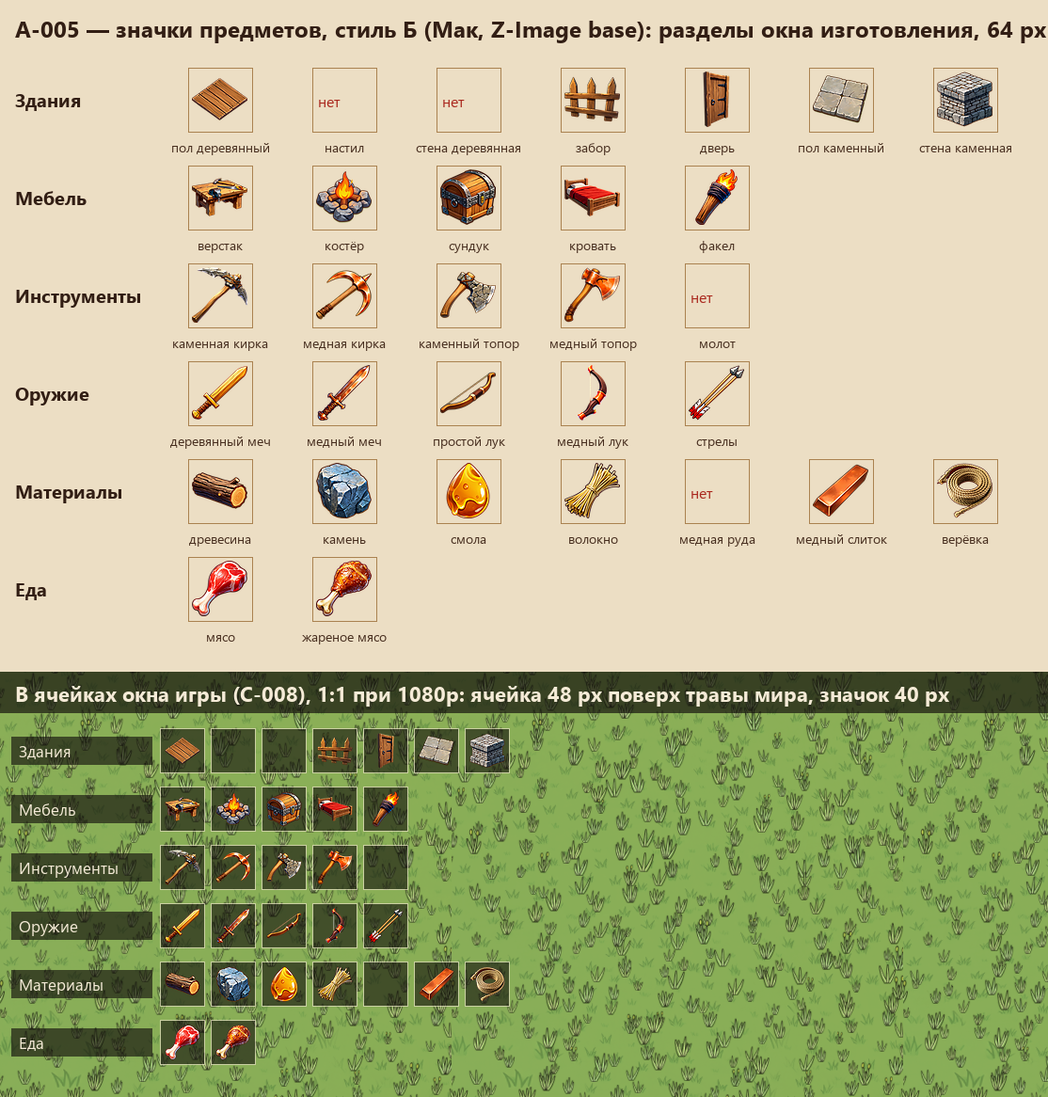
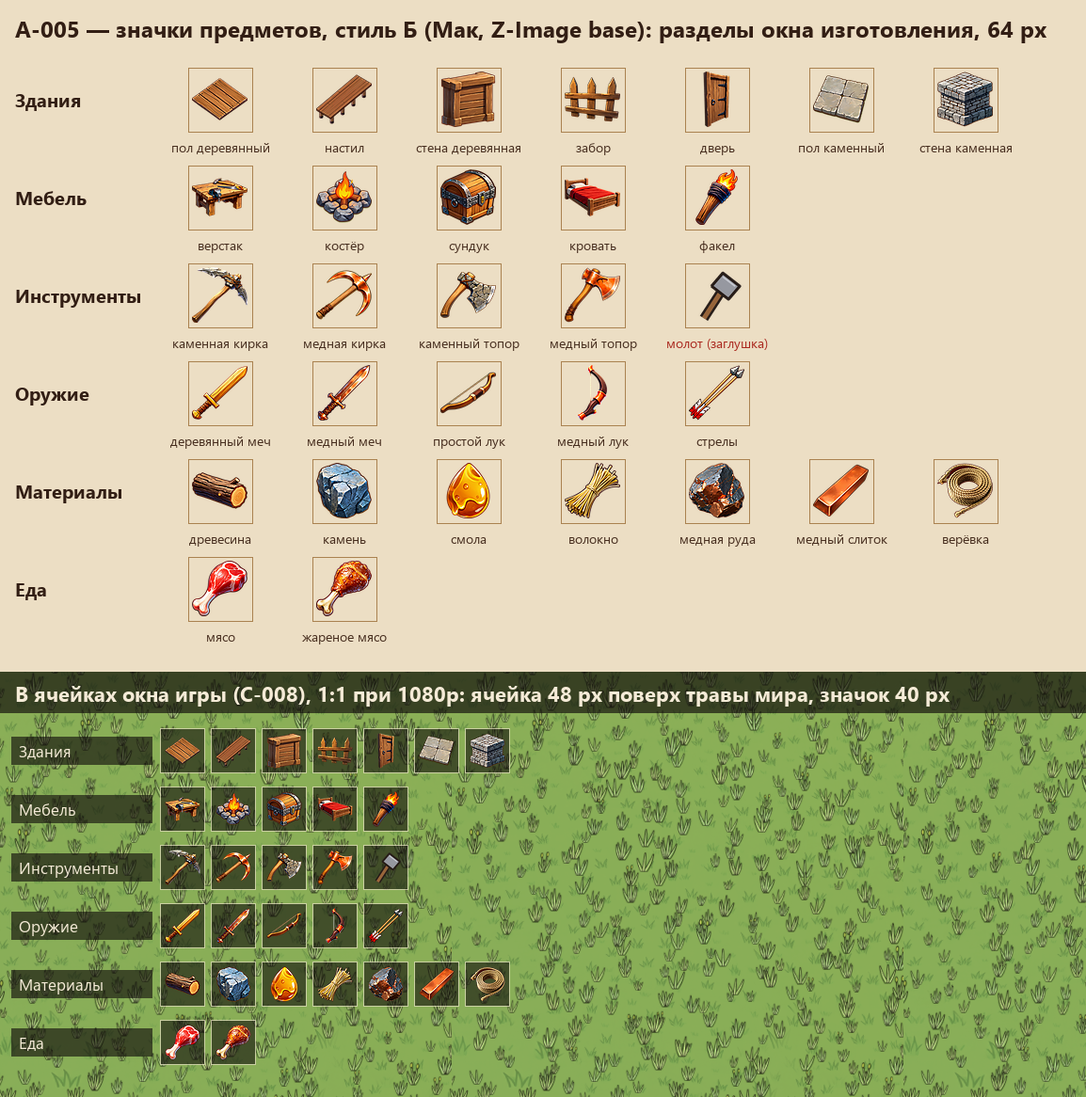
A-005: 30 из 31 значка предметов в стиле Б в игре, лист и снимки
Мак, Z-Image base: 36 заданий + 4 перезаказа с поправкой (настил,
деревянная стена, молот, медная руда). В игре 30 значков стиля Б
(TEMP_item_*, 64 px, статус placeholder до приёмки Автора), молот —
прежняя заглушка: три попытки вышли на плашке-медальоне.
Лист work/screens/A-005_set.png (разделы окна изготовления, 64 px и
в ячейках на траве), снимки игры work/screens/A-005_ingame_*.png.
Сборка Mono + smoke + host-smoke зелёная. Карточка и art.md обновлены.

diff --git a/tools/art_icon_set.py b/tools/art_icon_set.py
@@ -54,8 +54,10 @@ CHOICE = {
     # выбор из двух вариантов (15.11): у первого — плашка, два обуха, нет тетивы и т. п. (карточка, «Набор 15.11»)
     "stone_floor": "s_stone_floor_2", "door": "s_door_2", "stone_axe": "s_stone_axe_2", "copper_axe": "s_copper_axe_2",
     # перезаказ с поправкой (_r)
-    "platform": "s_platform_r", "wood_wall": "s_wood_wall_r", "hammer": "s_hammer_r", "copper_ore": "s_copper_ore_r",
+    "platform": "s_platform_r", "wood_wall": "s_wood_wall_r", "copper_ore": "s_copper_ore_r",
 }
+# Не удались все попытки — остаётся прежняя заглушка скрипта (молот: 2 варианта и перезаказ — на плашке / голова отдельно).
+KEEP = {"hammer"}
 
 
 def source(item: str, raw: Path, praw: Path) -> Path:
@@ -101,6 +103,9 @@ def install(raw: Path, praw: Path) -> None:
         rows = list(csv.reader(f))
     notes = {}
     for item in LABEL:
+        if item in KEEP:
+            print(f"{item}: прежняя заглушка (KEEP)")
+            continue
         src = source(item, raw, praw)
         if not src.exists():
             print(f"{item}: нет {src} — пропуск")
@@ -125,7 +130,7 @@ def install(raw: Path, praw: Path) -> None:
 def sheet() -> None:
     per_row = 7
     colw, rowh, left = 132, 104, 170
-    W = left + per_row * colw + 20
+    W = left + per_row * colw + 60
     top = 70
     H_list = top + len(SECTIONS) * rowh + 20
     grass_rows = [(name, items) for name, items in SECTIONS]
@@ -143,10 +148,11 @@ def sheet() -> None:
             d.rectangle((x + 30, y + 2, x + 30 + 68, y + 2 + 68), outline=(170, 130, 80))
             if p.exists():
                 img.alpha_composite(Image.open(p).convert("RGBA"), (x + 32, y + 4))
-            else:
-                d.text((x + 36, y + 26), "нет", fill=(170, 40, 30), font=probe.font(16))
+            else:   # нет значка Мака — прежняя заглушка скрипта с пометкой
+                img.alpha_composite(probe.current_icon(k), (x + 32, y + 4))
+                label += " (заглушка)"
             tw = d.textlength(label, font=probe.font(14))
-            d.text((x + 64 - tw / 2, y + 76), label, fill=(70, 45, 30), font=probe.font(14))
+            d.text((x + 64 - tw / 2, y + 76), label, fill=(170, 40, 30) if not p.exists() else (70, 45, 30), font=probe.font(14))
     gy = H_list
     img.alpha_composite(probe.grass(W, H_grass), (0, gy))
     img.alpha_composite(Image.new("RGBA", (W, 44), (16, 12, 10, 170)), (0, gy))
@@ -158,7 +164,8 @@ def sheet() -> None:
         d.text((20, y + 12), name, fill=(245, 235, 215), font=probe.font(17))
         for i, (k, _) in enumerate(items):
             p = ICONS / f"{k}_128.png"
-            ic = probe.fit_from(Image.open(p).convert("RGBA"), probe.ICON) if p.exists() else None
+            ic = (probe.fit_from(Image.open(p).convert("RGBA"), probe.ICON) if p.exists()
+                  else probe.current_icon(k).resize((probe.ICON, probe.ICON), Image.LANCZOS))
             img.alpha_composite(probe.cell_with(ic), (left + i * (probe.CELL + 6), y))
     SHEET.parent.mkdir(parents=True, exist_ok=True)
     img.convert("RGB").save(SHEET, optimize=True)

diff --git a/work/tasks/A-005.md b/work/tasks/A-005.md
@@ -82,45 +82,59 @@
 
 | Ключ | id задания | seed | Статус | Предмет (промпт) |
 |---|---|---|---|---|
-| `s_wood_floor` | `13faf4ad-1d34-42df-8696-dce9420e7cb4` | 5220 | в очереди | a single square floor tile of wooden planks, a thin flat square made of five parallel warm brown wooden boards with visible wood grain and small iron nail heads, lying flat, very low, only a thin edge of thickness visible, a flat floor tile, not a box, not a wall · камера `icon_b_floor` · негатив предмета: `box, cube, crate, block, wall, tall, upright, table, legs, thick slab` |
-| `s_wood_floor_2` | `16d81491-1878-4ded-a012-3e5cb03f7fec` | 5320 | в очереди | a single square floor tile of wooden planks, a thin flat square made of five parallel warm brown wooden boards with visible wood grain and small iron nail heads, lying flat, very low, only a thin edge of thickness visible, a flat floor tile, not a box, not a wall · камера `icon_b_floor` · негатив предмета: `box, cube, crate, block, wall, tall, upright, table, legs, thick slab` |
-| `s_stone_floor` | `fede8310-bd9d-4879-a7fd-9998d90793cf` | 5221 | в очереди | a single square floor tile of stone paving, a thin flat square made of four smooth light grey and sandy beige stone flagstones with mortar seams, lying flat, very low, only a thin edge of thickness visible, a flat floor tile, not a block, not a wall · камера `icon_b_floor` · негатив предмета: `box, cube, crate, block, wall, tall, upright, table, legs, thick slab` |
-| `s_stone_floor_2` | `913cc6a6-a69f-4373-aafe-a1539adc32fe` | 5321 | в очереди | a single square floor tile of stone paving, a thin flat square made of four smooth light grey and sandy beige stone flagstones with mortar seams, lying flat, very low, only a thin edge of thickness visible, a flat floor tile, not a block, not a wall · камера `icon_b_floor` · негатив предмета: `box, cube, crate, block, wall, tall, upright, table, legs, thick slab` |
-| `s_platform` | `7cf7f04e-2997-4b28-89a2-a720070cffac` | 5222 | в очереди | a short wooden pier section, a flat deck of brown wooden planks resting on four round wooden stilt posts that go down below it, the posts clearly visible under the deck, a low dock walkway piece seen from above at a three-quarter angle · негатив предмета: `water, sea, waves, railing, house, boat` |
-| `s_platform_2` | `ba9ddf5b-50d2-47b6-95fe-517c831319c5` | 5322 | в очереди | a short wooden pier section, a flat deck of brown wooden planks resting on four round wooden stilt posts that go down below it, the posts clearly visible under the deck, a low dock walkway piece seen from above at a three-quarter angle · негатив предмета: `water, sea, waves, railing, house, boat` |
-| `s_wood_wall` | `e4d4319e-6400-467f-aae1-c38fe3a36dad` | 5223 | в очереди | a single upright section of a wooden wall, a vertical rectangular piece of wall built of thick horizontal brown logs stacked on top of each other, clearly taller than it is thick, the top face shows the cut ends and the thickness of the logs, visible front face and top face, standing upright like a piece of a house wall · негатив предмета: `floor, flat tile, roof, window, door, house, cabin` |
-| `s_wood_wall_2` | `7035919b-60a5-4dad-936d-e96a46e94744` | 5323 | в очереди | a single upright section of a wooden wall, a vertical rectangular piece of wall built of thick horizontal brown logs stacked on top of each other, clearly taller than it is thick, the top face shows the cut ends and the thickness of the logs, visible front face and top face, standing upright like a piece of a house wall · негатив предмета: `floor, flat tile, roof, window, door, house, cabin` |
-| `s_wood_fence` | `bb810e68-bba0-4634-8b4a-f67438b5d9f4` | 5224 | в очереди | a short section of a wooden fence, three upright pointed wooden posts connected by two horizontal rails, clear empty gaps between the posts and the rails, warm brown weathered wood, standing upright · негатив предмета: `solid wall, panel, gate, grass, ground` |
-| `s_wood_fence_2` | `461a81f7-b54a-43fd-9020-84d994c0402e` | 5324 | в очереди | a short section of a wooden fence, three upright pointed wooden posts connected by two horizontal rails, clear empty gaps between the posts and the rails, warm brown weathered wood, standing upright · негатив предмета: `solid wall, panel, gate, grass, ground` |
-| `s_door` | `6561cfac-9bbb-4c78-ba5f-fd928398c02d` | 5225 | в очереди | a single closed wooden door standing upright in its frame, a tall rectangular door leaf of vertical brown planks with two black iron hinges and a round iron ring handle, set in a thick wooden door frame, front three-quarter view · негатив предмета: `wall, house, building, open door, window, steps` |
-| `s_door_2` | `df1aaa03-7b2b-4786-a281-889d11d74ce4` | 5325 | в очереди | a single closed wooden door standing upright in its frame, a tall rectangular door leaf of vertical brown planks with two black iron hinges and a round iron ring handle, set in a thick wooden door frame, front three-quarter view · негатив предмета: `wall, house, building, open door, window, steps` |
-| `s_stone_pickaxe` | `15bc3bc8-7d1e-4cc5-aa6e-7b8e69c5a4c4` | 5201 | в очереди | a primitive stone pickaxe, double-ended pick, two symmetric pointed spikes of knapped grey flint stone lashed with brown rawhide cord across the top of a straight wooden handle, no hammer face, no axe blade, side view 3/4, the handle runs diagonally from the lower left to the upper right, light brown wood, the slender stone head sits across the top of the handle with two equally long sharp points curving downward on both sides · негатив предмета: `hammer head, flat striking face, axe blade, hatchet, adze, single point, mallet` |
-| `s_stone_pickaxe_2` | `f0392822-d432-4bb0-9d2c-8c3a39393868` | 5301 | в очереди | a primitive stone pickaxe, double-ended pick, two symmetric pointed spikes of knapped grey flint stone lashed with brown rawhide cord across the top of a straight wooden handle, no hammer face, no axe blade, side view 3/4, the handle runs diagonally from the lower left to the upper right, light brown wood, the slender stone head sits across the top of the handle with two equally long sharp points curving downward on both sides · негатив предмета: `hammer head, flat striking face, axe blade, hatchet, adze, single point, mallet` |
-| `s_stone_axe` | `3020bf50-c2bc-4b1a-a59e-3f6020e355f3` | 5202 | в очереди | a primitive stone axe, one wedge-shaped blade of knapped grey flint stone with a sharp chipped cutting edge, lashed with brown rawhide cord to the top of a straight light brown wooden handle, side view 3/4, the handle runs diagonally from the lower left to the upper right, the blade sticks out to one side only · негатив предмета: `pickaxe, pick, spike, two blades, double-headed axe, hammer` |
-| `s_stone_axe_2` | `1020b071-98cb-4f8e-99b6-26e22da66f16` | 5302 | в очереди | a primitive stone axe, one wedge-shaped blade of knapped grey flint stone with a sharp chipped cutting edge, lashed with brown rawhide cord to the top of a straight light brown wooden handle, side view 3/4, the handle runs diagonally from the lower left to the upper right, the blade sticks out to one side only · негатив предмета: `pickaxe, pick, spike, two blades, double-headed axe, hammer` |
-| `s_hammer` | `644fd9e2-6441-4c08-aed7-c94d23a9e942` | 5203 | в очереди | a heavy builder's mallet, a big rectangular block head of grey stone with two flat ends, lashed with leather cord across the top of a straight light brown wooden handle, side view 3/4, the handle runs diagonally from the lower left to the upper right · негатив предмета: `pickaxe, spike, axe blade, claw, nails` |
-| `s_hammer_2` | `bd5bd294-9284-46bf-94cc-5d0b7c742fa8` | 5303 | в очереди | a heavy builder's mallet, a big rectangular block head of grey stone with two flat ends, lashed with leather cord across the top of a straight light brown wooden handle, side view 3/4, the handle runs diagonally from the lower left to the upper right · негатив предмета: `pickaxe, spike, axe blade, claw, nails` |
-| `s_wooden_sword` | `23699a3c-39ae-43ff-b65d-22a373abd8da` | 5204 | в очереди | a simple wooden sword, a straight flat blade carved from light golden wood with a rounded point, a short wooden crossguard and a grip wrapped in brown leather, lying diagonally with the hilt at the lower left and the point at the upper right · негатив предмета: `metal blade, steel, iron, shiny metal` |
-| `s_simple_bow` | `c9886cf7-cd70-4690-8f8f-f63b0ab961d3` | 5205 | в очереди | a simple wooden hunting bow, one smoothly curved stave of brown wood, a taut thin pale string, a leather grip wrap in the middle, standing upright, no arrow · негатив предмета: `arrow, crossbow, quiver, several bows` |
-| `s_simple_bow_2` | `0a9b29a5-34ea-4a13-9735-b268ae908f53` | 5305 | в очереди | a simple wooden hunting bow, one smoothly curved stave of brown wood, a taut thin pale string, a leather grip wrap in the middle, standing upright, no arrow · негатив предмета: `arrow, crossbow, quiver, several bows` |
-| `s_torch` | `43acfaad-37c3-49d0-8438-0b1c0f0e17a2` | 5206 | в очереди | a single hand torch, a short stick of brown wood with the top wrapped in dark resin-soaked cloth, a bright warm orange and yellow flame burning on top, standing upright slightly tilted · негатив предмета: `wall bracket, holder, candle, smoke` |
-| `s_resin` | `ef3d21c8-a446-4af9-924f-c23296461a7d` | 5210 | в очереди | a single lump of golden amber tree resin, a translucent glossy honey-orange drop-shaped blob with a few small bubbles inside and a bright highlight, a sticky drip running down one side · негатив предмета: `green object, green leaves, green grass` |
-| `s_fiber` | `52a05e54-d2df-417f-b6b4-cdd67edd308e` | 5211 | в очереди | a small bundle of dry plant fiber, a loose bunch of long thin straw yellow and pale beige fibers tied in the middle with a twist of the same fiber, the ends fanning out · негатив предмета: `green object, green leaves, green grass, green fibers` |
-| `s_copper_ore` | `570d0f36-b093-4c8b-ba2f-f6fc7b458391` | 5212 | в очереди | a single rough chunk of copper ore, an angular piece of dark brown-grey rock with veins and nuggets of bright shiny metallic orange copper on its faces · негатив предмета: `green object, green leaves, green grass, malachite` |
-| `s_arrows` | `ce58d51f-1cf3-455e-a8e9-a2e70380ef4f` | 5213 | в очереди | a small bundle of three wooden arrows lying diagonally side by side, straight light wooden shafts, sharp grey stone arrowheads at the upper right, red and white feather fletching at the lower left · негатив предмета: `bow, quiver, target` |
-| `s_rope` | `ade9a96b-7601-4976-ba42-5ee09d184dfe` | 5214 | в очереди | a coiled hank of thick twisted rope, tan brown hemp rope wound in a neat round coil with one loose end, clear twisted strand texture · негатив предмета: `knot board, hook, chain` |
-| `s_copper_axe` | `cc6c1240-6593-4bbb-9872-891d7578e0e8` | 5215 | в очереди | a copper axe, one wedge-shaped blade of polished bright orange copper with a curved sharp cutting edge, mounted on the top of a straight light brown wooden handle with a leather grip wrap near the end, side view 3/4, the handle runs diagonally from the lower left to the upper right, the blade sticks out to one side only · негатив предмета: `pickaxe, pick, spike, two blades, double-headed axe, hammer` |
-| `s_copper_axe_2` | `23215ec6-1162-4727-8748-8767b4ded76d` | 5315 | в очереди | a copper axe, one wedge-shaped blade of polished bright orange copper with a curved sharp cutting edge, mounted on the top of a straight light brown wooden handle with a leather grip wrap near the end, side view 3/4, the handle runs diagonally from the lower left to the upper right, the blade sticks out to one side only · негатив предмета: `pickaxe, pick, spike, two blades, double-headed axe, hammer` |
-| `s_copper_sword` | `3479a103-0d11-4f53-8176-56796f1af17e` | 5216 | в очереди | a copper short sword, a straight double-edged blade of polished bright orange copper with a central ridge and a pointed tip, a copper crossguard, a grip wrapped in dark brown leather and a round pommel, lying diagonally with the hilt at the lower left and the point at the upper right |
-| `s_copper_bow` | `40f61faf-662f-4fa2-bcae-f24b47fb96ca` | 5217 | в очереди | a reinforced recurve bow, a curved stave of dark wood with polished bright orange copper fittings on both tips and on the grip, a taut thin pale string, standing upright, no arrow · негатив предмета: `arrow, crossbow, quiver, several bows` |
-| `s_meat` | `2812fdef-e7e7-45c9-8f49-ca97ae2aa7a4` | 5218 | в очереди | a single raw meat drumstick, a thick chunk of glossy red raw meat with white fat marbling on a white bone that sticks out at one end · негатив предмета: `plate, knife, cooked, roasted` |
-| `s_roast_meat` | `3b74ba9f-16a2-4ba3-859d-32e91d40aa16` | 5218 | в очереди | a single roasted meat drumstick, a thick chunk of juicy meat with a crispy golden-brown roasted crust and shiny drops of fat, on a white bone that sticks out at one end · негатив предмета: `plate, knife, raw meat, fire` |
-| `s_campfire` | `43af2a36-3751-4b1e-b9d4-a651c382ebb4` | 5226 | в очереди | a small campfire, a ring of grey stones around crossed burning logs, bright warm orange and yellow flames rising in the middle, a few glowing embers · негатив предмета: `smoke cloud, ground, grass, pot, spit` |
-| `s_chest` | `41b5d34b-3210-44c1-8283-6ce847008433` | 5227 | в очереди | a sturdy closed wooden treasure chest, a box of warm brown planks with a rounded lid, dark iron bands and corner fittings, a golden lock plate on the front · негатив предмета: `open chest, coins, gold pile` |
-| `s_bed` | `57d90b06-6102-4590-849e-87c8075adb22` | 5228 | в очереди | a simple single wooden bed, a sturdy brown wooden frame with a headboard, a red wool blanket and a white pillow, seen from above at a three-quarter angle, the whole bed visible · негатив предмета: `room, wall, bedroom, rug, person` |
+| `s_wood_floor` | `13faf4ad-1d34-42df-8696-dce9420e7cb4` | 5220 | **в игре** (доски с гвоздями) | a single square floor tile of wooden planks, a thin flat square made of five parallel warm brown wooden boards with visible wood grain and small iron nail heads, lying flat, very low, only a thin edge of thickness visible, a flat floor tile, not a box, not a wall · камера `icon_b_floor` · негатив предмета: `box, cube, crate, block, wall, tall, upright, table, legs, thick slab` |
+| `s_wood_floor_2` | `16d81491-1878-4ded-a012-3e5cb03f7fec` | 5320 | запасной | a single square floor tile of wooden planks, a thin flat square made of five parallel warm brown wooden boards with visible wood grain and small iron nail heads, lying flat, very low, only a thin edge of thickness visible, a flat floor tile, not a box, not a wall · камера `icon_b_floor` · негатив предмета: `box, cube, crate, block, wall, tall, upright, table, legs, thick slab` |
+| `s_stone_floor` | `fede8310-bd9d-4879-a7fd-9998d90793cf` | 5221 | не взят: «булыжники», читается хуже | a single square floor tile of stone paving, a thin flat square made of four smooth light grey and sandy beige stone flagstones with mortar seams, lying flat, very low, only a thin edge of thickness visible, a flat floor tile, not a block, not a wall · камера `icon_b_floor` · негатив предмета: `box, cube, crate, block, wall, tall, upright, table, legs, thick slab` |
+| `s_stone_floor_2` | `913cc6a6-a69f-4373-aafe-a1539adc32fe` | 5321 | **в игре** | a single square floor tile of stone paving, a thin flat square made of four smooth light grey and sandy beige stone flagstones with mortar seams, lying flat, very low, only a thin edge of thickness visible, a flat floor tile, not a block, not a wall · камера `icon_b_floor` · негатив предмета: `box, cube, crate, block, wall, tall, upright, table, legs, thick slab` |
+| `s_platform` | `7cf7f04e-2997-4b28-89a2-a720070cffac` | 5222 | не удался: ступени на каменном основании | a short wooden pier section, a flat deck of brown wooden planks resting on four round wooden stilt posts that go down below it, the posts clearly visible under the deck, a low dock walkway piece seen from above at a three-quarter angle · негатив предмета: `water, sea, waves, railing, house, boat` |
+| `s_platform_2` | `ba9ddf5b-50d2-47b6-95fe-517c831319c5` | 5322 | не взят: похож на стол | a short wooden pier section, a flat deck of brown wooden planks resting on four round wooden stilt posts that go down below it, the posts clearly visible under the deck, a low dock walkway piece seen from above at a three-quarter angle · негатив предмета: `water, sea, waves, railing, house, boat` |
+| `s_wood_wall` | `e4d4319e-6400-467f-aae1-c38fe3a36dad` | 5223 | не удался: поленница (путается с древесиной) | a single upright section of a wooden wall, a vertical rectangular piece of wall built of thick horizontal brown logs stacked on top of each other, clearly taller than it is thick, the top face shows the cut ends and the thickness of the logs, visible front face and top face, standing upright like a piece of a house wall · негатив предмета: `floor, flat tile, roof, window, door, house, cabin` |
+| `s_wood_wall_2` | `7035919b-60a5-4dad-936d-e96a46e94744` | 5323 | не удался: поленница | a single upright section of a wooden wall, a vertical rectangular piece of wall built of thick horizontal brown logs stacked on top of each other, clearly taller than it is thick, the top face shows the cut ends and the thickness of the logs, visible front face and top face, standing upright like a piece of a house wall · негатив предмета: `floor, flat tile, roof, window, door, house, cabin` |
+| `s_wood_fence` | `bb810e68-bba0-4634-8b4a-f67438b5d9f4` | 5224 | **в игре** | a short section of a wooden fence, three upright pointed wooden posts connected by two horizontal rails, clear empty gaps between the posts and the rails, warm brown weathered wood, standing upright · негатив предмета: `solid wall, panel, gate, grass, ground` |
+| `s_wood_fence_2` | `461a81f7-b54a-43fd-9020-84d994c0402e` | 5324 | запасной (просветы уже) | a short section of a wooden fence, three upright pointed wooden posts connected by two horizontal rails, clear empty gaps between the posts and the rails, warm brown weathered wood, standing upright · негатив предмета: `solid wall, panel, gate, grass, ground` |
+| `s_door` | `6561cfac-9bbb-4c78-ba5f-fd928398c02d` | 5225 | не удался: на бежевой плашке | a single closed wooden door standing upright in its frame, a tall rectangular door leaf of vertical brown planks with two black iron hinges and a round iron ring handle, set in a thick wooden door frame, front three-quarter view · негатив предмета: `wall, house, building, open door, window, steps` |
+| `s_door_2` | `df1aaa03-7b2b-4786-a281-889d11d74ce4` | 5325 | **в игре** (полотно без рамы) | a single closed wooden door standing upright in its frame, a tall rectangular door leaf of vertical brown planks with two black iron hinges and a round iron ring handle, set in a thick wooden door frame, front three-quarter view · негатив предмета: `wall, house, building, open door, window, steps` |
+| `s_stone_pickaxe` | `15bc3bc8-7d1e-4cc5-aa6e-7b8e69c5a4c4` | 5201 | **в игре** | a primitive stone pickaxe, double-ended pick, two symmetric pointed spikes of knapped grey flint stone lashed with brown rawhide cord across the top of a straight wooden handle, no hammer face, no axe blade, side view 3/4, the handle runs diagonally from the lower left to the upper right, light brown wood, the slender stone head sits across the top of the handle with two equally long sharp points curving downward on both sides · негатив предмета: `hammer head, flat striking face, axe blade, hatchet, adze, single point, mallet` |
+| `s_stone_pickaxe_2` | `f0392822-d432-4bb0-9d2c-8c3a39393868` | 5301 | запасной | a primitive stone pickaxe, double-ended pick, two symmetric pointed spikes of knapped grey flint stone lashed with brown rawhide cord across the top of a straight wooden handle, no hammer face, no axe blade, side view 3/4, the handle runs diagonally from the lower left to the upper right, light brown wood, the slender stone head sits across the top of the handle with two equally long sharp points curving downward on both sides · негатив предмета: `hammer head, flat striking face, axe blade, hatchet, adze, single point, mallet` |
+| `s_stone_axe` | `3020bf50-c2bc-4b1a-a59e-3f6020e355f3` | 5202 | не удался: двусторонний топор | a primitive stone axe, one wedge-shaped blade of knapped grey flint stone with a sharp chipped cutting edge, lashed with brown rawhide cord to the top of a straight light brown wooden handle, side view 3/4, the handle runs diagonally from the lower left to the upper right, the blade sticks out to one side only · негатив предмета: `pickaxe, pick, spike, two blades, double-headed axe, hammer` |
+| `s_stone_axe_2` | `1020b071-98cb-4f8e-99b6-26e22da66f16` | 5302 | **в игре** | a primitive stone axe, one wedge-shaped blade of knapped grey flint stone with a sharp chipped cutting edge, lashed with brown rawhide cord to the top of a straight light brown wooden handle, side view 3/4, the handle runs diagonally from the lower left to the upper right, the blade sticks out to one side only · негатив предмета: `pickaxe, pick, spike, two blades, double-headed axe, hammer` |
+| `s_hammer` | `644fd9e2-6441-4c08-aed7-c94d23a9e942` | 5203 | не удался: голова отдельно от рукояти | a heavy builder's mallet, a big rectangular block head of grey stone with two flat ends, lashed with leather cord across the top of a straight light brown wooden handle, side view 3/4, the handle runs diagonally from the lower left to the upper right · негатив предмета: `pickaxe, spike, axe blade, claw, nails` |
+| `s_hammer_2` | `bd5bd294-9284-46bf-94cc-5d0b7c742fa8` | 5303 | не удался: на круглой плашке, рукоять обрезана | a heavy builder's mallet, a big rectangular block head of grey stone with two flat ends, lashed with leather cord across the top of a straight light brown wooden handle, side view 3/4, the handle runs diagonally from the lower left to the upper right · негатив предмета: `pickaxe, spike, axe blade, claw, nails` |
+| `s_wooden_sword` | `23699a3c-39ae-43ff-b65d-22a373abd8da` | 5204 | **в игре** | a simple wooden sword, a straight flat blade carved from light golden wood with a rounded point, a short wooden crossguard and a grip wrapped in brown leather, lying diagonally with the hilt at the lower left and the point at the upper right · негатив предмета: `metal blade, steel, iron, shiny metal` |
+| `s_simple_bow` | `c9886cf7-cd70-4690-8f8f-f63b0ab961d3` | 5205 | **в игре** | a simple wooden hunting bow, one smoothly curved stave of brown wood, a taut thin pale string, a leather grip wrap in the middle, standing upright, no arrow · негатив предмета: `arrow, crossbow, quiver, several bows` |
+| `s_simple_bow_2` | `0a9b29a5-34ea-4a13-9735-b268ae908f53` | 5305 | не взят: тетивы не видно | a simple wooden hunting bow, one smoothly curved stave of brown wood, a taut thin pale string, a leather grip wrap in the middle, standing upright, no arrow · негатив предмета: `arrow, crossbow, quiver, several bows` |
+| `s_torch` | `43acfaad-37c3-49d0-8438-0b1c0f0e17a2` | 5206 | **в игре** | a single hand torch, a short stick of brown wood with the top wrapped in dark resin-soaked cloth, a bright warm orange and yellow flame burning on top, standing upright slightly tilted · негатив предмета: `wall bracket, holder, candle, smoke` |
+| `s_resin` | `ef3d21c8-a446-4af9-924f-c23296461a7d` | 5210 | **в игре** | a single lump of golden amber tree resin, a translucent glossy honey-orange drop-shaped blob with a few small bubbles inside and a bright highlight, a sticky drip running down one side · негатив предмета: `green object, green leaves, green grass` |
+| `s_fiber` | `52a05e54-d2df-417f-b6b4-cdd67edd308e` | 5211 | **в игре** | a small bundle of dry plant fiber, a loose bunch of long thin straw yellow and pale beige fibers tied in the middle with a twist of the same fiber, the ends fanning out · негатив предмета: `green object, green leaves, green grass, green fibers` |
+| `s_copper_ore` | `570d0f36-b093-4c8b-ba2f-f6fc7b458391` | 5212 | не удался: на плашке | a single rough chunk of copper ore, an angular piece of dark brown-grey rock with veins and nuggets of bright shiny metallic orange copper on its faces · негатив предмета: `green object, green leaves, green grass, malachite` |
+| `s_arrows` | `ce58d51f-1cf3-455e-a8e9-a2e70380ef4f` | 5213 | **в игре** (две стрелы) | a small bundle of three wooden arrows lying diagonally side by side, straight light wooden shafts, sharp grey stone arrowheads at the upper right, red and white feather fletching at the lower left · негатив предмета: `bow, quiver, target` |
+| `s_rope` | `ade9a96b-7601-4976-ba42-5ee09d184dfe` | 5214 | **в игре** | a coiled hank of thick twisted rope, tan brown hemp rope wound in a neat round coil with one loose end, clear twisted strand texture · негатив предмета: `knot board, hook, chain` |
+| `s_copper_axe` | `cc6c1240-6593-4bbb-9872-891d7578e0e8` | 5215 | не взят: обух шире | a copper axe, one wedge-shaped blade of polished bright orange copper with a curved sharp cutting edge, mounted on the top of a straight light brown wooden handle with a leather grip wrap near the end, side view 3/4, the handle runs diagonally from the lower left to the upper right, the blade sticks out to one side only · негатив предмета: `pickaxe, pick, spike, two blades, double-headed axe, hammer` |
+| `s_copper_axe_2` | `23215ec6-1162-4727-8748-8767b4ded76d` | 5315 | **в игре** | a copper axe, one wedge-shaped blade of polished bright orange copper with a curved sharp cutting edge, mounted on the top of a straight light brown wooden handle with a leather grip wrap near the end, side view 3/4, the handle runs diagonally from the lower left to the upper right, the blade sticks out to one side only · негатив предмета: `pickaxe, pick, spike, two blades, double-headed axe, hammer` |
+| `s_copper_sword` | `3479a103-0d11-4f53-8176-56796f1af17e` | 5216 | **в игре** | a copper short sword, a straight double-edged blade of polished bright orange copper with a central ridge and a pointed tip, a copper crossguard, a grip wrapped in dark brown leather and a round pommel, lying diagonally with the hilt at the lower left and the point at the upper right |
+| `s_copper_bow` | `40f61faf-662f-4fa2-bcae-f24b47fb96ca` | 5217 | **в игре** | a reinforced recurve bow, a curved stave of dark wood with polished bright orange copper fittings on both tips and on the grip, a taut thin pale string, standing upright, no arrow · негатив предмета: `arrow, crossbow, quiver, several bows` |
+| `s_meat` | `2812fdef-e7e7-45c9-8f49-ca97ae2aa7a4` | 5218 | **в игре** | a single raw meat drumstick, a thick chunk of glossy red raw meat with white fat marbling on a white bone that sticks out at one end · негатив предмета: `plate, knife, cooked, roasted` |
+| `s_roast_meat` | `3b74ba9f-16a2-4ba3-859d-32e91d40aa16` | 5218 | **в игре** | a single roasted meat drumstick, a thick chunk of juicy meat with a crispy golden-brown roasted crust and shiny drops of fat, on a white bone that sticks out at one end · негатив предмета: `plate, knife, raw meat, fire` |
+| `s_campfire` | `43af2a36-3751-4b1e-b9d4-a651c382ebb4` | 5226 | **в игре** | a small campfire, a ring of grey stones around crossed burning logs, bright warm orange and yellow flames rising in the middle, a few glowing embers · негатив предмета: `smoke cloud, ground, grass, pot, spit` |
+| `s_chest` | `41b5d34b-3210-44c1-8283-6ce847008433` | 5227 | **в игре** | a sturdy closed wooden treasure chest, a box of warm brown planks with a rounded lid, dark iron bands and corner fittings, a golden lock plate on the front · негатив предмета: `open chest, coins, gold pile` |
+| `s_bed` | `57d90b06-6102-4590-849e-87c8075adb22` | 5228 | **в игре** | a simple single wooden bed, a sturdy brown wooden frame with a headboard, a red wool blanket and a white pillow, seen from above at a three-quarter angle, the whole bed visible · негатив предмета: `room, wall, bedroom, rug, person` |
+| `s_platform_r` | `8f56f110-e584-4150-823d-be3b4e352b6b` | 5422 | **в игре** (перезаказ; слабый: похож на скамью) | a long narrow low wooden dock walkway section over water, a deck of brown wooden planks laid crosswise, the deck is about twice as long as wide, resting on six thin round wooden stilt posts with dark wet lower ends that stick down below the deck, seen from above at a three-quarter angle so the deck top is clearly visible, a pier piece, not a table, not a bench · негатив предмета: `water, sea, waves, railing, house, boat, table, bench, stairs, steps, stone base` |
+| `s_wood_wall_r` | `f5e20dae-82de-4af3-af64-a4008200e079` | 5423 | **в игре** (перезаказ; блок из досок, похож на ящик) | a single upright section of a wooden house wall, a thick solid rectangular wall block as tall as it is wide, its front face made of long horizontal sawn brown planks with straight seams and a squared timber post at each corner, the flat top face shows the solid thickness of the wall about one third of its width, sturdy and blocky like the stone brick wall block, standing upright · негатив предмета: `floor, flat tile, roof, window, door, house, cabin, log pile, firewood stack, round log ends, stack of logs` |
+| `s_hammer_r` | `42d88f1b-5254-426a-bb17-510f153db9fe` | 5403 | не удался: снова на плашке — у молота прежняя заглушка | a primitive stone sledgehammer lying diagonally, a long straight light brown wooden handle running from the lower left to the upper right, at the upper right end a rectangular block of grey stone with two flat ends sits across the handle, firmly lashed to it with crossed leather cord, the head and the handle form one connected object, the whole hammer fully visible including the end of the handle · негатив предмета: `pickaxe, spike, axe blade, claw, nails, round badge, medallion, circle background, disc, plate, emblem, coin, frame, cropped handle, floating head` |
+| `s_copper_ore_r` | `263b111b-41d7-47cd-ab10-c86918a2e873` | 5412 | **в игре** (перезаказ) | a single rough chunk of copper ore floating alone, an angular piece of cool dark grey rock with sharp chipped facets, thick veins and bright shiny metallic orange copper nuggets sticking out of its faces, strong contrast between the grey rock and the glowing orange copper · негатив предмета: `green object, malachite, rounded square plate, tile, badge, card, frame, backdrop, beige background, app icon background, rust` |
+
+**Перезаказ с поправкой (1 раз, ключи `_r`):** настил (оба варианта — стол / ступени: «длинный узкий низкий мостик на шести тонких сваях, доски поперёк, not a table, not a bench»), деревянная стена (оба — поленница, путается с древесиной: «сплошной блок стены из пиленых досок с угловыми брусьями, как каменный блок»), молот (голова отдельно / круглая плашка: «голова привязана к рукояти, одно целое», в негатив `round badge, medallion, plate…`), медная руда (на плашке: в негатив `rounded square plate, tile, badge…`). Зёрна перезаказов: настил 5422, стена 5423, молот 5403, руда 5412.
+
+**Итог: 30 из 31 значка — Мак, стиль Б** (6 из пробы + 24 из набора); **молот** — три попытки не удались (модель упорно кладёт его на плашку-медальон), в игре прежняя заглушка скрипта (`KEEP` в `tools/art_icon_set.py`), на листе подписан «(заглушка)». Выбор вариантов — `CHOICE` в том же скрипте; 128 px — `art/style/icons_b/<предмет>_128.png`, в игре — `TEMP_item_<предмет>.png` 64 × 64 с пурпурным уголком (в окнах не рисуется, C-008), строки `art/manifest.csv`: `placeholder`, «Мак, стиль Б (A-005 …)». `tools/make_item_icons.py` эти значки больше не перерисовывает (строки манифеста с «стиль Б (A-005»).
+
+**Лист** — `work/screens/A-005_set.png`: значки по разделам окна изготовления в 64 px и те же в ячейках окна на траве (40 px).
+
+**Честная оценка листа.** Стиль единый: тонкий тёмный контур, свет слева сверху, насыщенные цвета; на траве в ячейке 40 px читаются все, кроме мелочей. Сильные: еда, сундук, кровать, костёр, факел, мечи, кирки, смола, волокно, верёвка, полы. **Стена против пола читается:** полы — плоские низкие плитки, стены — стоящие блоки с высотой. Слабые места: деревянная стена похожа на деревянный ящик (лучше поленницы, но не «кусок стены дома»); настил похож на скамью; дверь — полотно без рамы; молот — старая заглушка; стрел две, а не три; медный лук и простой лук разного ракурса (вертикальный и лёжа). Если Автору нужны точнее стены и настил — следующий заход лучше делать по эскизу-силуэту (img2img с контуром из `make_item_icons.py`), а не только словами.
+**В игре** (сборка Mono + smoke + host-smoke зелёные, снимки `tools/shots.ps1 -Only 'C-008_craft*'`): `work/screens/A-005_ingame_1080_ui.png` (окна сумки и изготовления 1:1 при 1080p), `work/screens/A-005_ingame_720.png` (весь кадр 720p). Значки видны в сумке, на вкладках разделов, в сетке рецептов и на панели быстрого доступа; на траве под полупрозрачной ячейкой контур держит силуэт. CI ядра (`tools/ci.ps1`) — 5–8 из 1042 тестов красные, каждый раз разные (сохранение и сервер по времени: «запись не кончилась», хост/перезапуск); в ветке менялись только картинки, манифест и скрипты Python — к коду ядра отношения нет, похоже на нагрузку машины.
 
 ## Статус-лог
 
 - 15.11 — карточка (координатор, по приёмке Автора).
 - 15.11 — проба: 18 значков × 2 круга (слиток, кирка), лист `work/screens/A-005_probe.png` с окнами C-008; рекомендация — Б. Ждёт выбора Автора.
 - 15.11 — Автор выбрал Б; весь набор: 36 заданий на Маке (25 предметов, у сложных 2 варианта).
+- 16.11 — набор: 30 из 31 значка в стиле Б в игре (4 перезаказа, молот — заглушка), лист `work/screens/A-005_set.png`, снимки `work/screens/A-005_ingame_*.png`. Ждёт приёмки Автора.

diff --git a/work/modules/art.md b/work/modules/art.md
@@ -40,5 +40,8 @@
 ### E2-17 (15.11)
 Мебель «с высотой» — новый скрипт `tools/make_furniture.py` (Pillow, рисунок ×4 и уменьшение): `TEMP_obj_workbench`, `chest`, `bed`, `campfire`, `torch` — 128 × 160, ракурс стен (верх 1:1, высота × 0,5 = `ObjectMesh.WallHeight`), верх + лицевая грань, свет слева сверху, тонкая тёмная кромка вместо толстого контура, яркие цвета (п. 11g); уголок и строки манифеста (статус placeholder, примечание обновлено). `make_item_icons.py` эти пять файлов больше не пишет (`FURNITURE_KEYS`), значки из старых рисунков делает по-прежнему. **Уголок заглушки у объектов мира теперь не рисуется** (`ObjectAtlas.ClearMarks`: в листе 8 × 8 слева вверху прозрачны, в PNG метка остаётся). Плитки `obj_wall_*`, `obj_fence`, `obj_door*` в мире больше не используются (стены рисует `ObjectMesh.Walls` кодом) — остались для значков и призрака.
 
+### A-005 (16.11)
+Значки предметов в стиле Б по выбору Автора (проба 15.11: форма как Factorio, тонкий тёмный контур, цвета как Terraria): 30 из 31 строки `ItemTable` — с Мака (Z-Image base, набор `art/style/sets/a005.json`, ключи `s_<предмет>`), молот — прежняя заглушка (три попытки — на плашке). Конвейер — `tools/art_icon_set.py` (вырезание зелёного фона и уменьшение как у `tools/art_icon_probe.py`, выбор варианта `CHOICE`, `KEEP`, установка в `TEMP_item_*` 64 × 64 с уголком, строки манифеста `placeholder` «Мак, стиль Б (A-005 …)», лист `work/screens/A-005_set.png`); 128 px — `art/style/icons_b/`. `make_item_icons.py` эти значки не перерисовывает. Сырые 1024 px — вне git (воспроизводятся по зерну). Финальные имена без `TEMP_` — после приёмки Автора.
+
 ## Дальше
 Заказать на Мак: сундук, кровать, стены (с высотой и автосоединением), полы, верстак, костёр, факел (сейчас нарисованы скриптом); пучки травы 3–4 формы, папоротник, камыш, цветы, лист (128 px, опора внизу по центру) — заменить лист, нарисованный кодом. `.meta`/импорт (шаг 1.4); переходы между видами земли и берег воды; вторая текстура на вид земли (чередование по шуму); перезаказать сухую траву и каменистую; палитра по биомам (LUT).
